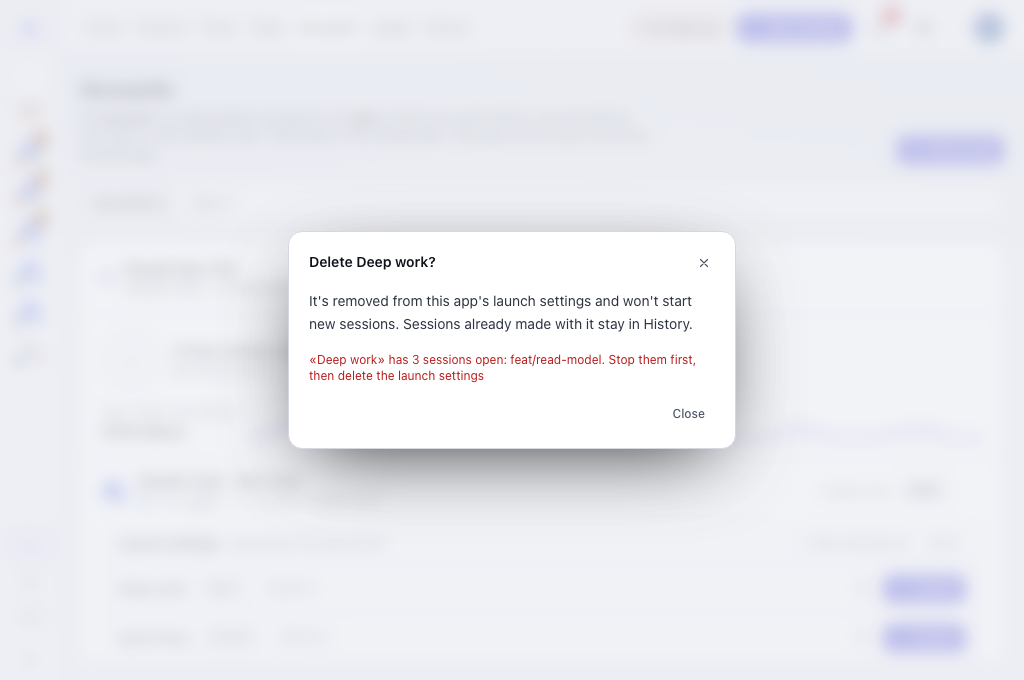
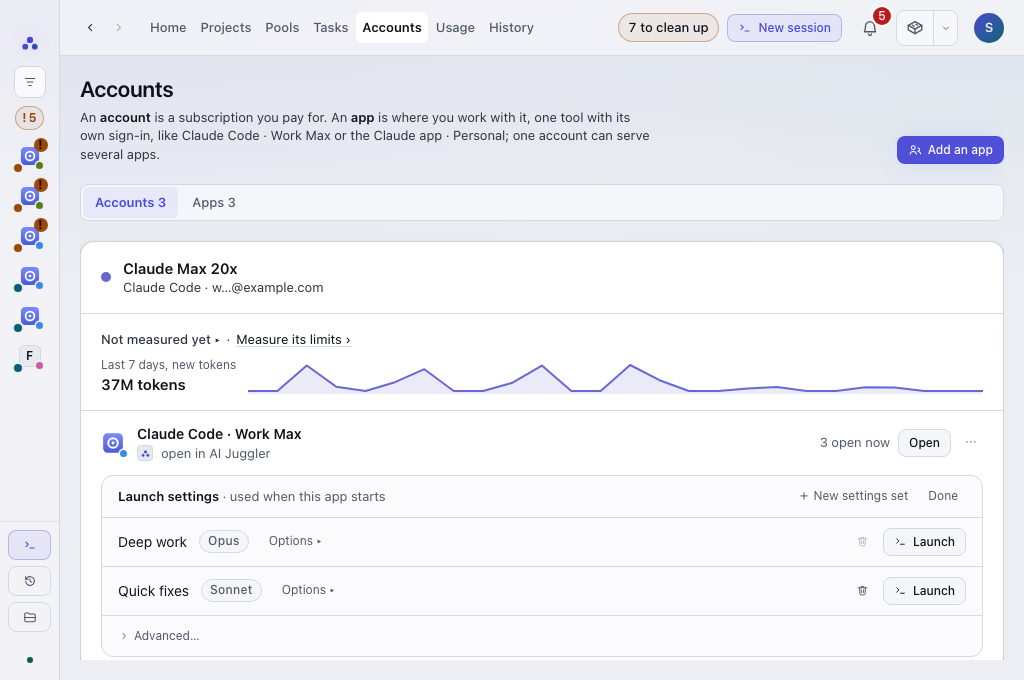
test(gallery): the launch-settings delete and the switch wording as 0.4.1 has them
- 41 policy: AJ-E2907 R3 greys a bin while its launch settings have live
  sessions (CI #218 timed out clicking it). The refused capture shows
  Deep work's greyed bin; the confirm is Quick fixes', given no live
  session in the flow's fixture. Captures re-rendered, critique updated.
- door: the Target step says a running original stops first (ecf5e5987).

diff --git a/ui/tests/visual/capture.spec.ts b/ui/tests/visual/capture.spec.ts
@@ -2492,9 +2492,10 @@ for (const theme of THEMES) {
       await openDoor(page, SWITCH_WIZARD_FIXTURE);
       await expect(page.getByTestId("switch-wizard")).toBeVisible();
       await expect(page.getByTestId("switch-steps")).toContainText("Step 1 of 3: Target");
-      // Never "moves" (deep/11 §4.9); the original is said once, here.
+      // Never "moves" (deep/11 §4.9); the original is said once, here:
+      // a running one stops first (originalFate, the rc5 walk).
       await expect(page.getByTestId("switch-move-line")).toHaveText(
-        "The whole conversation is carried over — all 42 messages, its subagents and file history. The original stays as it was.",
+        "The whole conversation is carried over — all 42 messages, its subagents and file history. The original stops first, then stays as it was. You can switch back to it any time.",
       );
       await expect(page.getByTestId("switch-wizard-reasons")).toContainText("hasn't been proven");
       await page.screenshot({
@@ -3961,7 +3962,8 @@ for (const theme of THEMES) {
 }
 
 // D-60 (0.3.1): deleting launch settings asks first and says their
-// sessions stay in History. Evidence, not a gate baseline.
+// sessions stay in History; AJ-E2907 R3: while a session started with
+// them runs, the bin is off and says why. Evidence, not a gate baseline.
 for (const theme of THEMES) {
   for (const vp of ACCOUNTS_VP) {
     test(`41 policy — Accounts → Delete launch settings asks first — ${vp.name} — ${theme}`, async ({ page }) => {
@@ -3973,7 +3975,10 @@ for (const theme of THEMES) {
           localStorage.setItem("aij.onboarding.dismissed", "1");
           sessionStorage.setItem("aij.ready.skipped", "1");
         },
-        { fixture: allStatuses, t: theme },
+        // Personal's rows name Quick fixes (p-2) in the shared fixture;
+        // here they ran with launch settings since gone, so Quick fixes
+        // has no live session and its delete can ask.
+        { fixture: { ...allStatuses, sessions: allStatuses.sessions.map((row) => (row.launch_recipe_id === "p-2" ? { ...row, launch_recipe_id: "p-gone" } : row)) }, t: theme },
       );
       await page.emulateMedia({ reducedMotion: "reduce", colorScheme: theme as "dark" | "light" });
       await page.setViewportSize({ width: vp.width, height: vp.height });
@@ -3981,14 +3986,17 @@ for (const theme of THEMES) {
       await goTo(page, "Accounts");
       await page.getByTestId("account-menu").first().click();
       await page.getByRole("menuitem", { name: "Edit launch settings" }).click();
-      await page.getByTestId("recipe-delete").first().click();
+      // AJ-E2907 R3: Deep work has three live sessions, so its bin is off
+      // before the click, saying why; nothing can be removed.
+      const deep = page.getByRole("button", { name: "Delete Deep work" });
+      await expect(deep).toBeDisabled();
+      await expect(deep).toHaveAttribute("title", "3 live sessions use these launch settings — stop them first.");
+      await shot41(page, `accounts-delete-launch-settings-refused-${vp.name}-${theme}`);
+      // Quick fixes has none open: its delete asks first, and says its
+      // sessions stay in History.
+      await page.getByRole("button", { name: "Delete Quick fixes" }).click();
       await expect(page.getByTestId("delete-launch-settings")).toContainText("stay in History");
       await shot41(page, `accounts-delete-launch-settings-${vp.name}-${theme}`);
-      // AJ-E2907: these launch settings have sessions open, so the delete is
-      // refused, naming them, and nothing is removed.
-      await page.getByTestId("delete-launch-settings-confirm").click();
-      await expect(page.getByTestId("delete-launch-settings-error")).toContainText("first, then delete the launch settings");
-      await shot41(page, `accounts-delete-launch-settings-refused-${vp.name}-${theme}`);
     });
   }
 }

diff --git a/docs/qa/evidence/_gallery/41-policy/critique.md b/docs/qa/evidence/_gallery/41-policy/critique.md
@@ -1,4 +1,4 @@
-<!-- captures: 8e4378e9c390 -->
+<!-- captures: 0836f5f2cca3 -->
 # 41-policy: a profile's launch settings, its keys and passwords choice, and deleting launch settings
 
 Design critique (D-57, AJ-E2814) against the reference screens: the row menus (77-menus), Settings' cards (98-local-cache) and the remove-account sheet. The baseline note says what changed on purpose; this says whether it is good. First critique of this family: its captures were last taken at 0.1 and were re-rendered for 0.3.1 (D-60).
@@ -42,9 +42,13 @@ Design critique (D-57, AJ-E2814) against the reference screens: the row menus (7
 |---|---|
 | accounts-pack-secrets-1280x800, -1024x680 | Work Max's profile with its launch settings open: Deep work (opus) with an override CLAUDE_CODE_MAX_OUTPUT_TOKENS = 8000 and "If a session crashes: As in Settings", Quick fixes (sonnet). |
 | settings-pack-secrets-1280x800, -1024x680 | Settings › Switching › Handovers and keys: Hide them (recommended), Leave them in, Ask on every switch; not chosen yet; the per-tool choice for each tool. |
-| accounts-delete-launch-settings-1280x800, -1024x680 | "Delete Deep work?" over the Accounts page: it's removed from the launch settings and starts nothing new; its sessions stay in History; Cancel · Delete. |
-| accounts-delete-launch-settings-refused-1280x800, -1024x680 | AJ-E2907: Delete pressed while three of Deep work's sessions are open: the same dialog says in red "«Deep work» has 3 sessions open: feat/read-model. Stop them first, then delete the launch settings", nothing is removed, and Close is the only button. |
+| accounts-delete-launch-settings-1280x800, -1024x680 | "Delete the launch settings “Quick fixes”?" over the Accounts page (Quick fixes has no live session): it's removed from this app's launch settings and won't start new sessions; sessions already made with it stay in History; Cancel · Delete. |
+| accounts-delete-launch-settings-refused-1280x800, -1024x680 | AJ-E2907 R3: Work Max's launch settings open; Deep work has three live sessions, so its bin is greyed before any click (its title: "3 live sessions use these launch settings — stop them first."), while Quick fixes' bin is live. |
 
 ## 0.3.2
 
 The dark Accounts page (accounts-pack-secrets) separates its layers: the Work Max account card stands off the canvas and the Launch settings box sits a step lighter inside it, and in light the white card has a soft edge on the grey canvas. The lighter dark accent shows on New session, Add an account and both Launch buttons, which makes the remaining problem plainer: four solid violet buttons in one view at 1280, so there is no single primary and Launch competes with Add an account. The disabled "Save overrides" is still a pale violet that reads like a pressed button rather than an unavailable one. Settings at 1024 (settings-pack-secrets-1024x680-dark) had its "Switching" page title back after the first pass, but after the second pass it opens scrolled again: the page starts at "Handovers and keys" with the "Switching" title scrolled out of view (the page is only about 40 px taller than the window, and the capture shows its end, with the footnote whole), so nothing on screen names the page except the selected Switching row in the side list; the three option boxes under "Your choice (all tools)" are a step apart from their card, the hints under each label are readable, and the per-tool pickers still list the preview tool as "fake-desktop". The rail at 1280 now shows "Stopped with an error" whole, without the cut-off age, but the fixture's other rows read "Working · 748 d" and "Ended · 748 d ago", an age no real session has. The delete confirm keeps its plain wording with a red-tinted Delete. All captures were re-rendered; the second pass changed only settings-pack-secrets-1024x680-dark.
+
+## 0.4.1
+
+AJ-E2907 R3 moved the refusal before the click: while a session started with launch settings runs, their bin is greyed and its title says "3 live sessions use these launch settings — stop them first." The gallery flow follows it (CI #218 timed out clicking that greyed bin): the refused capture now shows Deep work's greyed bin beside Quick fixes' live one, and the confirm is Quick fixes', the one with no live session ("Delete the launch settings “Quick fixes”?", sessions stay in History, a red-tinted Delete). The dialog reads well in both themes and at 1024. Weak: the greyed bin is faint (in light it is barely told apart from the live one beside it) and its reason is only in a tooltip, so nothing on screen says why it is off; the AJ-E2907 refusal dialog (a launch slipping in after the window's check) is no longer captured, since the preview can't stage that race. The fixture's rail ages read "757 d", as before. The other captures in this family were not re-rendered.
